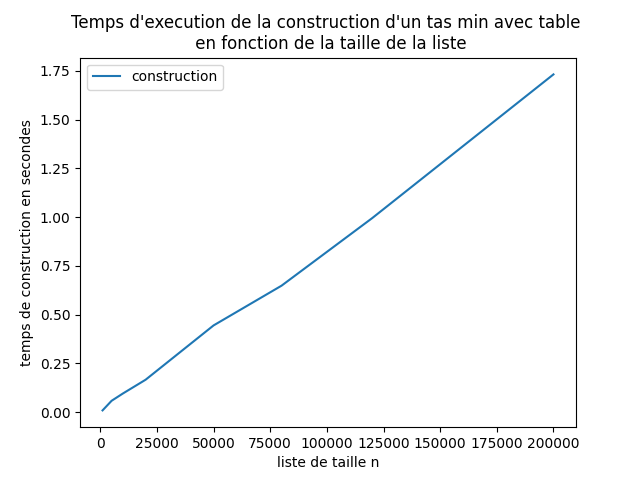
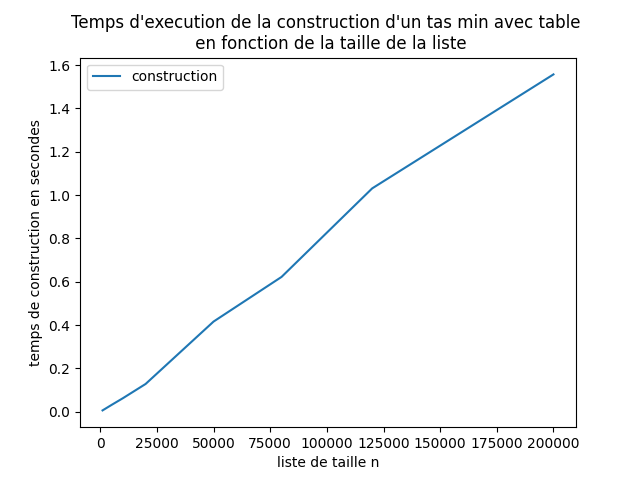
review

diff --git a/MinHeapExperimentation.py b/MinHeapExperimentation.py
@@ -47,18 +47,6 @@ def moyenne_temps_construction_tree(list_of_sizes):
         list_of_times.append(np.mean(list_of_times_for_size))
     return list_of_times
 
-# # save it a png with the name "temps_de_construction_tree.png"
-# list_of_times = moyenne_temps_construction_tree(list_of_sizes)
-# # reset the plot
-# plt.clf()
-# plt.plot(list_of_sizes, list_of_times)
-# plt.xlabel("taille de la lste")
-# plt.ylabel("temps de construction")
-# plt.title("temps de construction_tree en fonction de la taille de la liste")
-# # plt.show()
-# plt.savefig("experiments/temps_de_construction_tree.png")
-
-
 def moyenne_temps_suppression_table(list_of_sizes):
     list_of_times = []
     for size in list_of_sizes:
@@ -74,15 +62,6 @@ def moyenne_temps_suppression_table(list_of_sizes):
                 list_of_times_for_size.append(end_time - start_time)
         list_of_times.append(np.mean(list_of_times_for_size))
     return list_of_times
-
-# list_of_times = moyenne_temps_suppression_table(list_of_sizes)
-# plt.clf()
-# plt.plot(list_of_sizes, list_of_times)
-# plt.xlabel("taille de la lste")
-# plt.ylabel("temps de suppression")
-# plt.title("temps de suppression_table en fonction de la taille de la liste")
-# # plt.show()
-# plt.savefig("experiments/temps_de_suppression_tables.png")
 
 def moyenne_temps_suppression_tree(list_of_sizes):
     list_of_times = []
@@ -100,16 +79,6 @@ def moyenne_temps_suppression_tree(list_of_sizes):
         list_of_times.append(np.mean(list_of_times_for_size))
     return list_of_times
 
-# list_of_times = moyenne_temps_suppression_tree(list_of_sizes)
-# plt.clf()
-# plt.plot(list_of_sizes, list_of_times)
-# plt.xlabel("taille de la lste")
-# plt.ylabel("temps de suppression")
-# plt.title("temps de suppression_tree en fonction de la taille de la liste")
-# # plt.show()
-# plt.savefig("experiments/temps_de_suppression_trees.png")
-
-
 
 def moyenne_temps_ajoutIteratif_table(list_of_sizes):
     list_of_times = []
@@ -125,16 +94,6 @@ def moyenne_temps_ajoutIteratif_table(list_of_sizes):
         list_of_times.append(np.mean(list_of_times_for_size))
     return list_of_times
 
-# list_of_times = moyenne_temps_ajoutIteratif_table(list_of_sizes)
-# plt.clf()
-# plt.plot(list_of_sizes, list_of_times)
-# # make the x axis logarithmic but don't write 10^3, 10^4, 10^5, 10^6, 10^7, 10^8	
-# plt.xlabel("taille de la lste")
-# plt.ylabel("temps d'ajout")
-# plt.title("temps d'ajout_table en fonction de la taille de la liste")
-# # plt.show()
-# plt.savefig("experiments/temps_d_ajoutIteratif_table.png")
-
 def moyenne_temps_ajoutIteratif_tree(list_of_sizes):
     list_of_times = []
     for size in list_of_sizes:
@@ -148,17 +107,6 @@ def moyenne_temps_ajoutIteratif_tree(list_of_sizes):
             list_of_times_for_size.append(end_time - start_time)
         list_of_times.append(np.mean(list_of_times_for_size))
     return list_of_times
-
-# list_of_times = moyenne_temps_ajoutIteratif_tree(list_of_sizes)
-# plt.clf()
-# plt.plot(list_of_sizes, list_of_times)
-# plt.xlabel("taille de la lste")
-# plt.ylabel("temps d'ajout")
-# plt.title("temps d'ajout_tree en fonction de la taille de la liste")
-# # plt.show()
-# # plt.gca().yaxis.set_major_formatter(plt.FuncFormatter(format_func))
-# plt.savefig("experiments/temps_d_ajoutIteratif_tree.png")
-
 
 # le test d'union fait les tests suivant :
 # pour une taille de liste donnée,exemple 1000, fait jeu1 union jeu2, jeu2 union jeu3, jeu3 union jeu4 et jeu4 union jeu5
@@ -180,17 +128,6 @@ def moyenne_temps_union_table(list_of_sizes):
         list_of_times.append(np.mean(list_of_times_for_size))
     return list_of_times
 
-# list_of_times = moyenne_temps_union_table(list_of_sizes)
-# plt.clf()
-# plt.plot(list_of_sizes, list_of_times)
-# plt.xlabel("taille de la lste")
-# plt.ylabel("temps d'union")
-# plt.title("temps d'union_table en fonction de la taille de la liste")
-# # plt.show()
-# plt.savefig("experiments/temps_d_union_table.png")
-
-
-
 def moyenne_temps_union_tree(list_of_sizes):
     list_of_times = []
     for size in list_of_sizes:
@@ -208,15 +145,6 @@ def moyenne_temps_union_tree(list_of_sizes):
             list_of_times_for_size.append(end_time - start_time)
         list_of_times.append(np.mean(list_of_times_for_size))
     return list_of_times
-
-# list_of_times = moyenne_temps_union_tree(list_of_sizes)
-# plt.clf()
-# plt.plot(list_of_sizes, list_of_times)
-# plt.xlabel("taille de la lste")
-# plt.ylabel("temps d'union")
-# plt.title("temps d'union_tree en fonction de la taille de la liste")
-# # plt.show()
-# plt.savefig("experiments/temps_d_union_tree.png")
 
 def representation_graphique(abscisse, ordonnee, nom_fichier, xlabe='', ylabe='', titre='', label='', plot=False):
     fig, ax = plt.subplots()
@@ -238,53 +166,38 @@ def representation_graphique(abscisse, ordonnee, nom_fichier, xlabe='', ylabe=''
 
 
 if __name__ == '__main__':
-    # list_of_times = moyenne_temps_construction_table(list_of_sizes)
-    # xlabel = "liste de taille n"
-    # ylabel = "temps de construction en secondes"
-    # titre = "Temps d'execution de la construction d'un tas min avec table \n en fonction de la taille de la liste"
-    # label = "construction"
-    # nom_fichier = "MinHeap_construction_table_temps.png"
-    # representation_graphique(list_of_sizes, list_of_times, nom_fichier, xlabel, ylabel, titre, label)
     
-    # list_of_times = moyenne_temps_construction_tree(list_of_sizes)
-    # xlabel = "liste de taille n"
-    # ylabel = "temps de construction en secondes"
-    # titre = "Temps d'execution de la construction d'un tas min avec arbre binaire \n en fonction de la taille de la liste"
-    # label = "construction"
-    # nom_fichier = "MinHeap_construction_tree_temps.png"
-    # representation_graphique(list_of_sizes, list_of_times, nom_fichier, xlabel, ylabel, titre, label)
+    list_of_times = moyenne_temps_construction_table(list_of_sizes)
+    xlabel = "liste de taille n"
+    ylabel = "temps de construction en secondes"
+    titre = "Temps d'execution de la construction d'un tas min avec table \n en fonction de la taille de la liste"
+    label = "construction"
+    nom_fichier = "MinHeap_construction_table_temps.png"
+    representation_graphique(list_of_sizes, list_of_times, nom_fichier, xlabel, ylabel, titre, label)
     
-    # list_of_times = moyenne_temps_suppression_table(list_of_sizes)
-    # xlabel = "liste de taille n"
-    # ylabel = "temps de suppression en secondes"
-    # titre = "Temps d'execution de la suppression d'un tas min avec table \n en fonction de la taille de la liste"
-    # label = "suppression"
-    # nom_fichier = "MinHeap_suppression_table_temps.png"
-    # representation_graphique(list_of_sizes, list_of_times, nom_fichier, xlabel, ylabel, titre, label)
+    list_of_times = moyenne_temps_construction_tree(list_of_sizes)
+    xlabel = "liste de taille n"
+    ylabel = "temps de construction en secondes"
+    titre = "Temps d'execution de la construction d'un tas min avec arbre binaire \n en fonction de la taille de la liste"
+    label = "construction"
+    nom_fichier = "MinHeap_construction_tree_temps.png"
+    representation_graphique(list_of_sizes, list_of_times, nom_fichier, xlabel, ylabel, titre, label)
     
-    # list_of_times = moyenne_temps_suppression_tree(list_of_sizes)
-    # xlabel = "liste de taille n"
-    # ylabel = "temps de suppression en secondes"
-    # titre = "Temps d'execution de la suppression d'un tas min avec arbre binaire \n en fonction de la taille de la liste"
-    # label = "suppression"
-    # nom_fichier = "MinHeap_suppression_tree_temps.png"
-    # representation_graphique(list_of_sizes, list_of_times, nom_fichier, xlabel, ylabel, titre, label)
+    list_of_times = moyenne_temps_ajoutIteratif_table(list_of_sizes)
+    xlabel = "liste de taille n"
+    ylabel = "temps d'ajout en secondes"
+    titre = "Temps d'execution de l'ajout_iteratif d'un tas min avec table \n en fonction de la taille de la liste"
+    label = "ajout"
+    nom_fichier = "MinHeap_ajout_table_temps.png"
+    representation_graphique(list_of_sizes, list_of_times, nom_fichier, xlabel, ylabel, titre, label)
     
-    # list_of_times = moyenne_temps_ajoutIteratif_table(list_of_sizes)
-    # xlabel = "liste de taille n"
-    # ylabel = "temps d'ajout en secondes"
-    # titre = "Temps d'execution de l'ajout_iteratif d'un tas min avec table \n en fonction de la taille de la liste"
-    # label = "ajout"
-    # nom_fichier = "MinHeap_ajout_table_temps.png"
-    # representation_graphique(list_of_sizes, list_of_times, nom_fichier, xlabel, ylabel, titre, label)
-    
-    # list_of_times = moyenne_temps_ajoutIteratif_tree(list_of_sizes)
-    # xlabel = "liste de taille n"
-    # ylabel = "temps d'ajout en secondes"
-    # titre = "Temps d'execution de l'ajout_iteratif d'un tas min avec arbre binaire \n en fonction de la taille de la liste"
-    # label = "ajout"
-    # nom_fichier = "MinHeap_ajout_tree_temps.png"
-    # representation_graphique(list_of_sizes, list_of_times, nom_fichier, xlabel, ylabel, titre, label)
+    list_of_times = moyenne_temps_ajoutIteratif_tree(list_of_sizes)
+    xlabel = "liste de taille n"
+    ylabel = "temps d'ajout en secondes"
+    titre = "Temps d'execution de l'ajout_iteratif d'un tas min avec arbre binaire \n en fonction de la taille de la liste"
+    label = "ajout"
+    nom_fichier = "MinHeap_ajout_tree_temps.png"
+    representation_graphique(list_of_sizes, list_of_times, nom_fichier, xlabel, ylabel, titre, label)
     
     list_of_times = moyenne_temps_union_table(list_of_sizes)
     xlabel = "liste de taille n"

diff --git a/MinHeap.py b/MinHeap.py
@@ -190,21 +190,6 @@ class MinHeapBinaryTree:
         return self
 
 
-# exem = MinHeapBinaryTree()
-listofvalues = st.treat_from_file("cles_alea/jeu_1_nb_cles_1000.txt")
-# listofvalues2 = st.treat_from_file("cles_alea/jeu_2_nb_cles_1000.txt")
-# exem.ajout_iteratif(listofvalues)
-# # exem.print_heap()
-
-
-
-# print("min tree : " +str(exem.suppmin()) + "\n\n") 
-# # print("last element : " + str(exem.root.deepest.value) + "\n\n")
-# print("new min tree : " +str(exem.suppmin()) + "\n\n")
-
-
-# print("verify min heap property : " + str(exem.verify_min_heap_property()) + "\n\n")
-
 class MinHeapTable:
     def __init__(self):
         self.heap = []
@@ -314,19 +299,6 @@ def Union2(heap1: MinHeapBinaryTree, heap2: MinHeapBinaryTree):
     heap = MinHeapBinaryTree()
     list_heap1 = heap1.toList()
     list_heap2 = heap2.toList()
-    list_heap = list_heap1 + list_heap2
-    heap.construction(list_heap)
+    heap.construction(list_heap1 + list_heap2)
     heap.size = heap1.size + heap2.size
     return heap
-
-# helap = MinHeapBinaryTree()
-# r = st.treat_from_file("cles_alea/jeu_1_nb_cles_200000.txt")
-# x = st.treat_from_file("cles_alea/jeu_2_nb_cles_200000.txt")
-# helap.construction(r)
-# helap2 = MinHeapBinaryTree()
-# helap2.construction(x)
-# heap4 = Union2(helap, helap2)
-# # heap4.print_heap()
-# print("verify min heap property : " + str(heap4.verify_min_heap_property()) + "\n\n")
-
-
